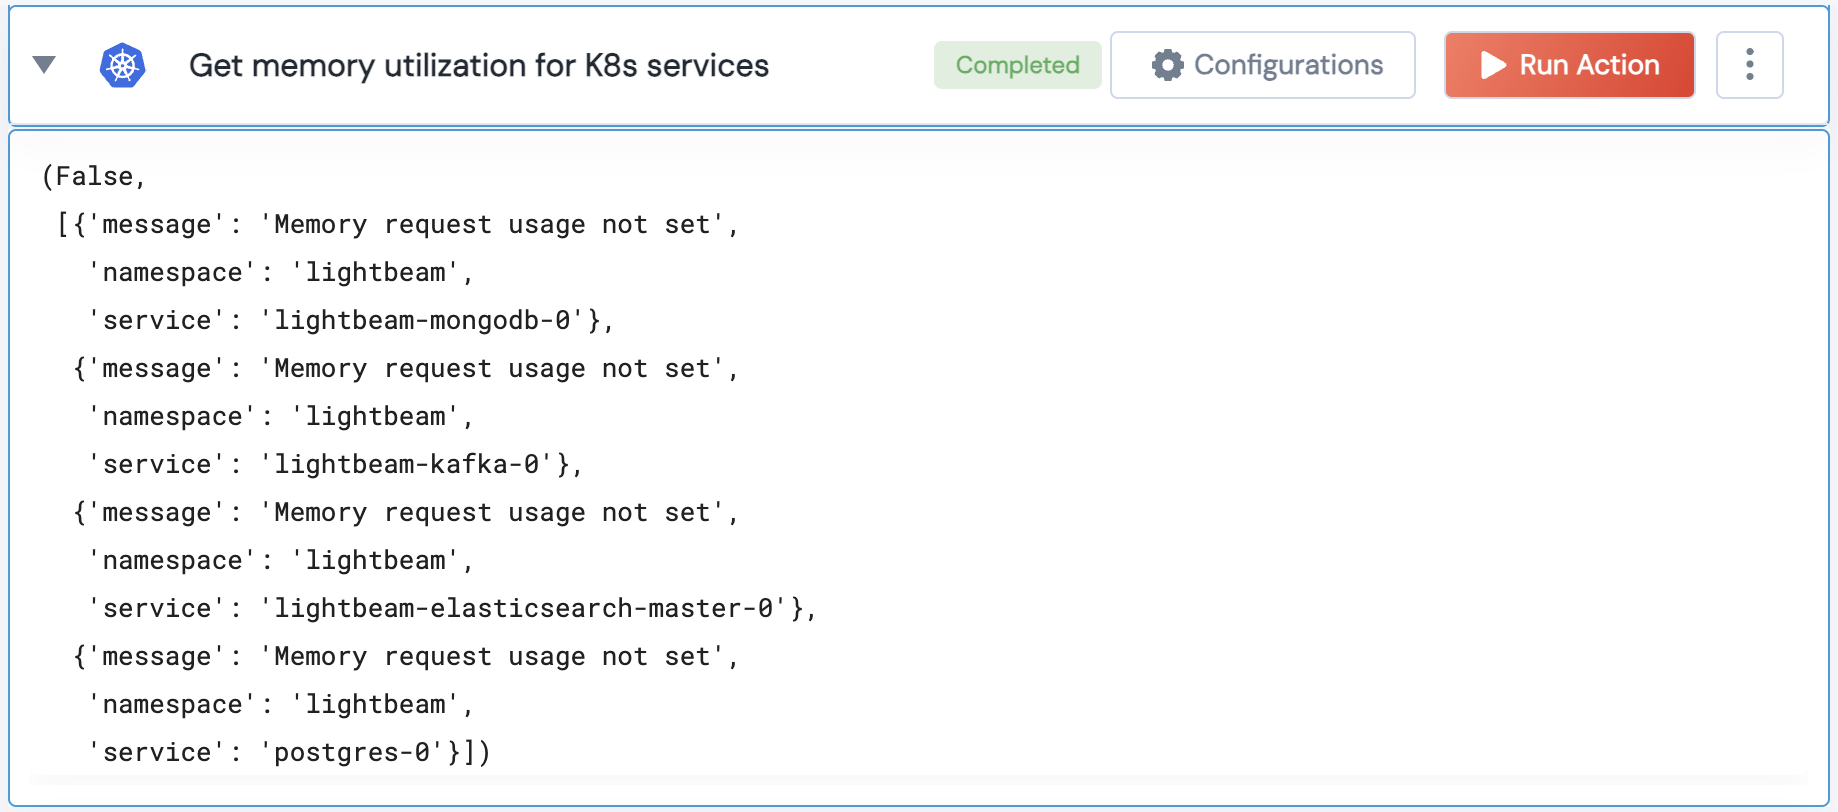
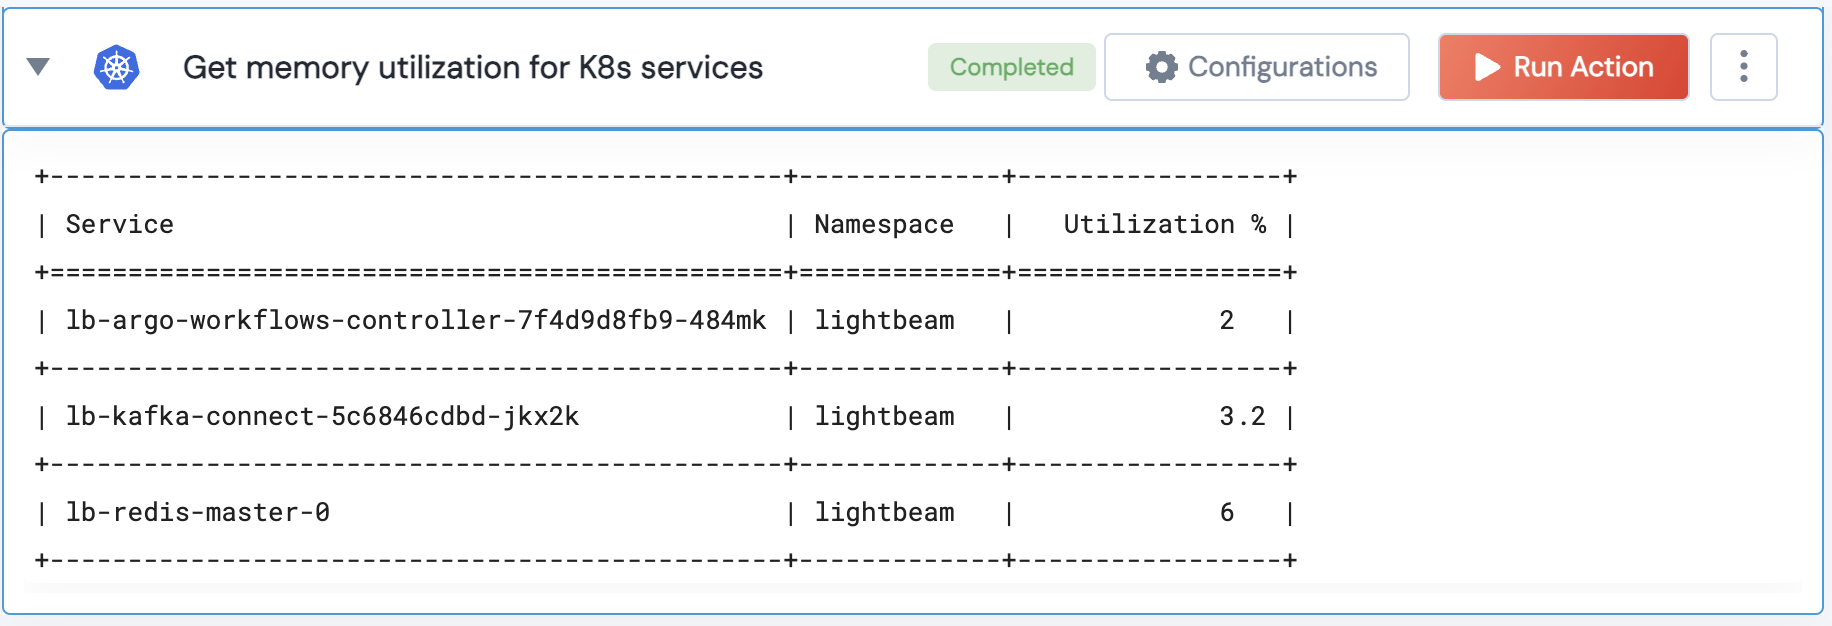
Update output and logic to get services exceeding memory utilization

diff --git a/Kubernetes/legos/k8s_get_memory_utilization_of_services/k8s_get_memory_utilization_of_services.py b/Kubernetes/legos/k8s_get_memory_utilization_of_services/k8s_get_memory_utilization_of_services.py
@@ -2,20 +2,20 @@
 # Copyright (c) 2023 unSkript.com
 # All rights reserved.
 #
-import pprint
 from typing import Optional, Tuple
 from pydantic import BaseModel, Field
+from tabulate import tabulate
 from kubernetes.client.rest import ApiException
-from pprint import pprint
+
 
 
 class InputSchema(BaseModel):
-    services: list = Field(
+    services: Optional[list] = Field(
         ...,
         description='List of pod names of the services for which memory utilization is to be fetched.',
         title='List of pod names (as services)',
     )
-    namespace: str = Field(
+    namespace: Optional[str] = Field(
         ...,
         description='Namespace in which the services are running.',
         title='K8s Namespace',
@@ -26,18 +26,59 @@ class InputSchema(BaseModel):
         title='Threshold (in %)',
     )
 
+
 def k8s_get_memory_utilization_of_services_printer(output):
-    if output is None:
-        return
-    pprint(output)
+    status, data = output
+    if status:
+        print("All services are within memory utilization threhsold")
+    else:
+        headers = ["Service", "Namespace", "Utilization %"]
+        table_data = []
+
+        for entry in data:
+            service = entry['service']
+            namespace = entry['namespace']
+            utilization_percentage = entry.get('utilization_percentage', "")
+            table_data.append([service, namespace, utilization_percentage])
+        print(tabulate(table_data, headers=headers, tablefmt="grid"))
 
 
 
-def k8s_get_memory_utilization_of_services(handle, services: list, namespace: str, threshold:float=80) -> Tuple:
+def convert_memory_to_milli(memory_request: str) -> int:
+    units = {
+        'K': 1,
+        'M': 1000,
+        'G': 1000 * 1000,
+        'T': 1000 * 1000 * 1000,
+    }
+
+    if memory_request[-1] in units:
+        return int(memory_request[:-1]) * units[memory_request[-1]]
+    elif memory_request[-2:] == 'Ki':
+        return int(memory_request[:-2])
+    elif memory_request[-2:] == 'Mi':
+        return int(memory_request[:-2]) * 1000
+    elif memory_request[-2:] == 'Gi':
+        return int(memory_request[:-2]) * 1000 * 1000
+    elif memory_request[-2:] == 'Ti':
+        return int(memory_request[:-2]) * 1000 * 1000 * 1000
+    else:
+        return int(memory_request)
+
+
+
+def k8s_get_memory_utilization_of_services(handle, namespace: str = "", threshold:float=80, services: list="") -> Tuple:
     """
     k8s_get_memory_utilization_of_services executes the given kubectl commands
     to find the memory utilization of the specified services in a particular namespace
     and compares it with a given threshold.
+
+    Example-
+    Memory Request: The memory request for the service is 256Mi, and the function convert_memory_to_milli converts this value to 256000 milli units.
+    Memory Usage: According to the kubectl top pod command, the memory usage for the container is 4Mi, which equals 4000 milli units (since 1 Mi = 1000 milli units).
+    Utilization Percentage Calculation: The utilization percentage would be calculated as (memory_usage / memory_request_milli) * 100.
+    Substituting the values we have:
+    (4000/256000)∗100=0.0015625∗100=0.15625% (Utilization %)
 
     :type handle: object
     :param handle: Object returned from the Task validate method, must have client-side validation enabled.
@@ -57,39 +98,51 @@ def k8s_get_memory_utilization_of_services(handle, services: list, namespace: st
     if handle.client_side_validation is False:
         raise ApiException(f"K8S Connector is invalid: {handle}")
 
+    if services and not namespace:
+        raise ApiException("Namespace must be provided if services are specified.")
+
+    if not namespace:
+        kubectl_command = "kubectl get namespace -o=jsonpath='{.items[*].metadata.name}'"
+        response = handle.run_native_cmd(kubectl_command)
+        if response is None or response.stderr:
+            raise ApiException(f"Error occurred while executing command {kubectl_command} {response.stderr if response else 'empty response'}")
+        namespaces = response.stdout.strip().split(' ')
+    else:
+        namespaces = [namespace]
+
     exceeding_services = []
 
-    for service in services:
-        # Get the memory request for the service
-        kubectl_command = f"kubectl get pod {service} -n {namespace} -o=jsonpath='{{.spec.containers[0].resources.requests.memory}}'"
-        response = handle.run_native_cmd(kubectl_command)
-        if response is None:
-            print(f"Error while executing command ({kubectl_command}) (empty response)")
-            return False, None
-        if response.stderr:
-            raise ApiException(f"Error occurred while executing command {kubectl_command} {response.stderr}")
-        memory_request = response.stdout
+    for namespace in namespaces:
+        if not services:
+            kubectl_command = f"kubectl get pods -n {namespace} -o=jsonpath='{{.items[*].metadata.name}}'"
+            response = handle.run_native_cmd(kubectl_command)
+            if response is None or response.stderr:
+                raise ApiException(f"Error occurred while executing command {kubectl_command} {response.stderr if response else 'empty response'}")
+            services_to_check = response.stdout.strip().split(' ')
+        else:
+            services_to_check = services
 
-        # Get the memory usage for the service
-        kubectl_command = f"kubectl top pod {service} -n {namespace} --containers | awk '{{print $3}}' | tail -n +2"
-        response = handle.run_native_cmd(kubectl_command)
-        if response.stderr:
-            raise ApiException(f"Error occurred while executing command {kubectl_command} {response.stderr}")
+        for service in services_to_check:
+            # Get the memory request for the service
+            kubectl_command = f"kubectl get pod {service} -n {namespace} -o=jsonpath='{{.spec.containers[0].resources.requests.memory}}'"
+            response = handle.run_native_cmd(kubectl_command)
+            memory_request = response.stdout
 
-        memory_usage_values = response.stdout.strip().split('\n')
-        memory_usage_values = [int(value.replace('m', '')) for value in memory_usage_values if value]
+            memory_request = memory_request.strip() if memory_request else '0'
+            memory_request_milli = convert_memory_to_milli(memory_request)
+            if memory_request_milli == 0:
+                print(f"Warning: Memory request usage not set for '{service}' in '{namespace}' namespace")
+            # Get the memory usage for the service
+            kubectl_command = f"kubectl top pod {service} -n {namespace} --containers | awk '{{print $3}}' | tail -n +2"
+            response = handle.run_native_cmd(kubectl_command)
+            memory_usage_values = response.stdout.strip().split('\n')
+            memory_usage_values = [int(value.replace('m', '')) * 1024 if 'm' in value else int(value) for value in memory_usage_values if value.strip()]
 
-        # Convert memory_request to milli-units and check for zero request
-        memory_request_milli = int(memory_request) * 1000 if memory_request else 0
-        if memory_request_milli == 0:
-            exceeding_services.append({"service": service, "namespace": namespace, "message": "Memory request usage not set"})
-
-        # Compare each memory usage with the threshold and add to exceeding_services if necessary
-        for memory_usage in memory_usage_values:
-            utilization_percentage = (memory_usage / memory_request_milli) * 100 if memory_request_milli > 0 else 0
-            if utilization_percentage > threshold:
-                print(f"Warning: Service {service} in namespace {namespace} has exceeded the memory utilization threshold of {threshold}%. Memory Usage: {utilization_percentage}%.")
-                exceeding_services.append({"service": service, "namespace": namespace, "utilization_percentage": utilization_percentage})
+            # Compare each memory usage with the threshold and add to exceeding_services if necessary
+            for memory_usage in memory_usage_values:
+                utilization_percentage = (memory_usage / memory_request_milli) * 100 if memory_request_milli > 0 else 0
+                if utilization_percentage > threshold:
+                    exceeding_services.append({"service": service, "namespace": namespace,"message": "Memory request usage not set", "utilization_percentage": utilization_percentage})
 
     if exceeding_services:
         return (False, exceeding_services)

diff --git a/Kubernetes/legos/k8s_get_memory_utilization_of_services/README.md b/Kubernetes/legos/k8s_get_memory_utilization_of_services/README.md
@@ -19,6 +19,8 @@ This Lego takes inputs handle, services, namespace, threshold.
 ## Lego Output
 Here is a sample output.
 <img src="./1.png">
+<img src="./2.png">
+<img src="./3.png">
 
 ## See it in Action
 
